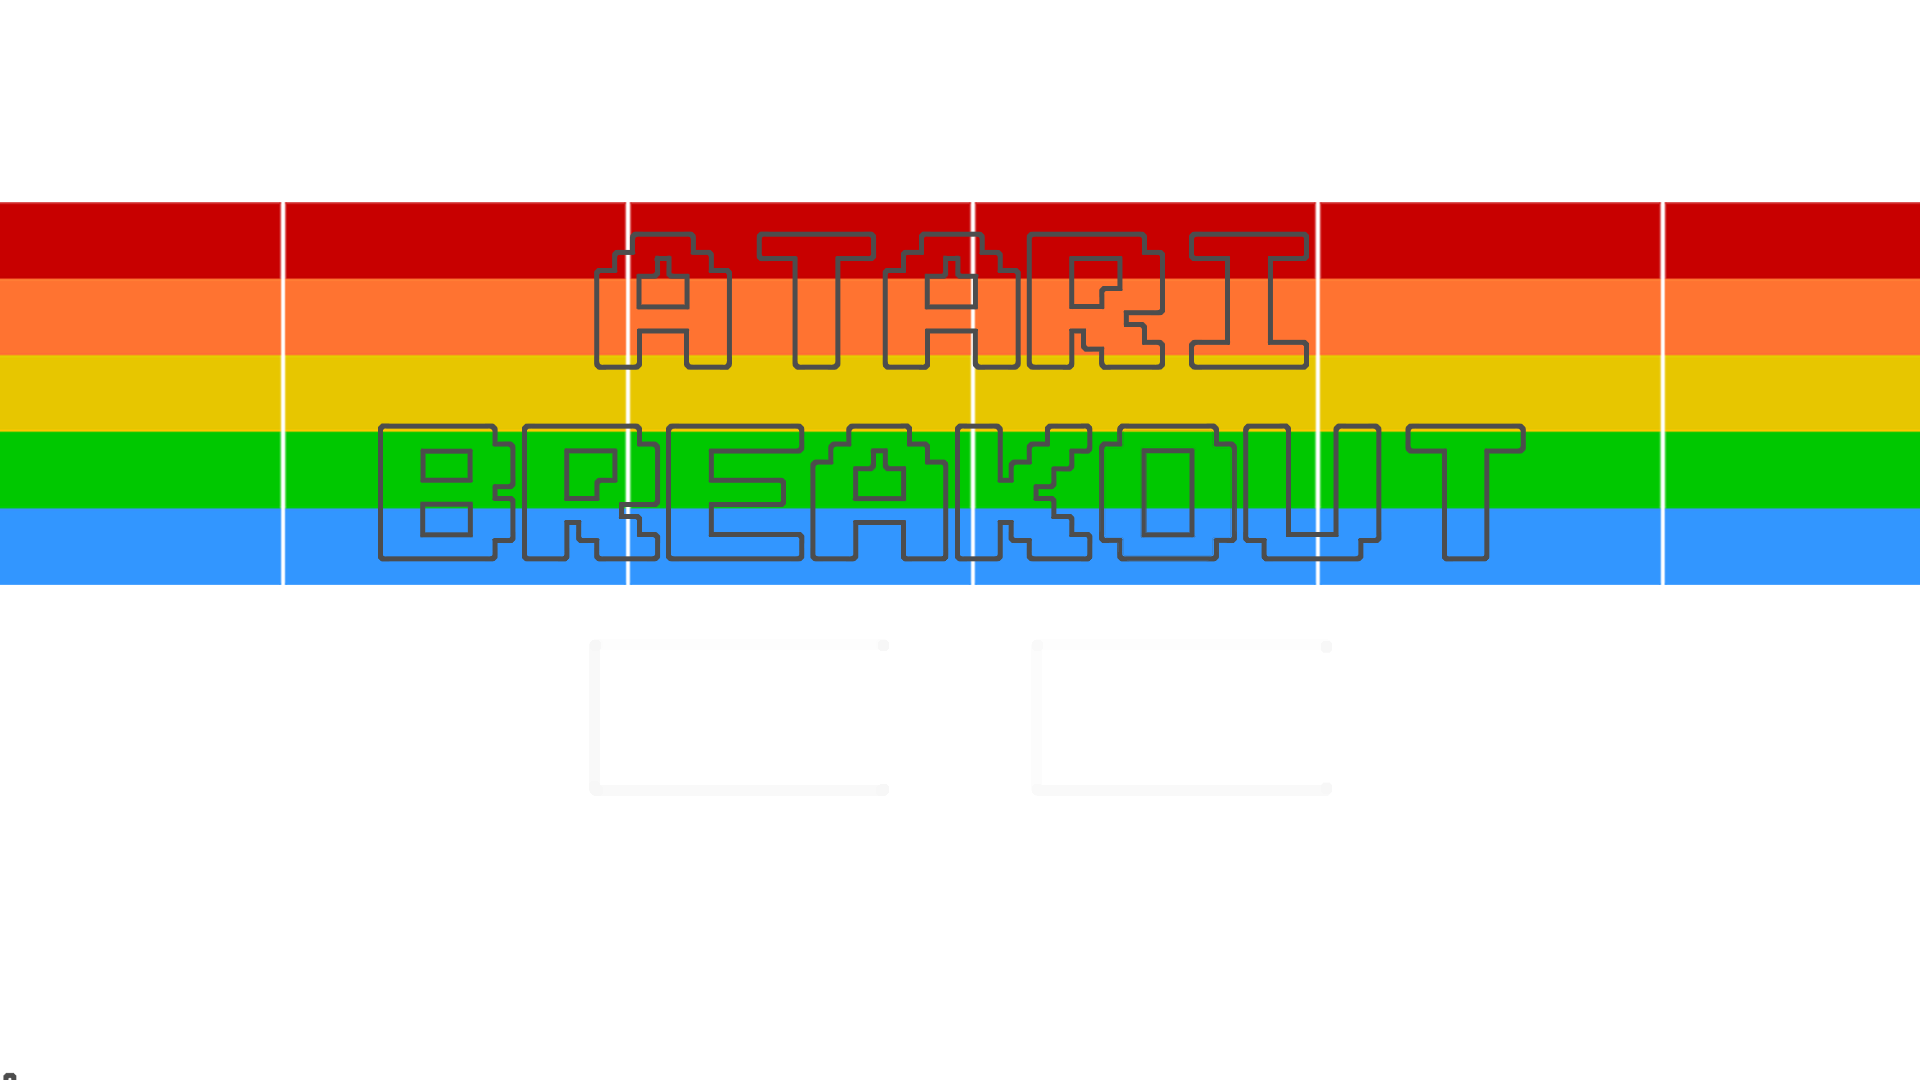
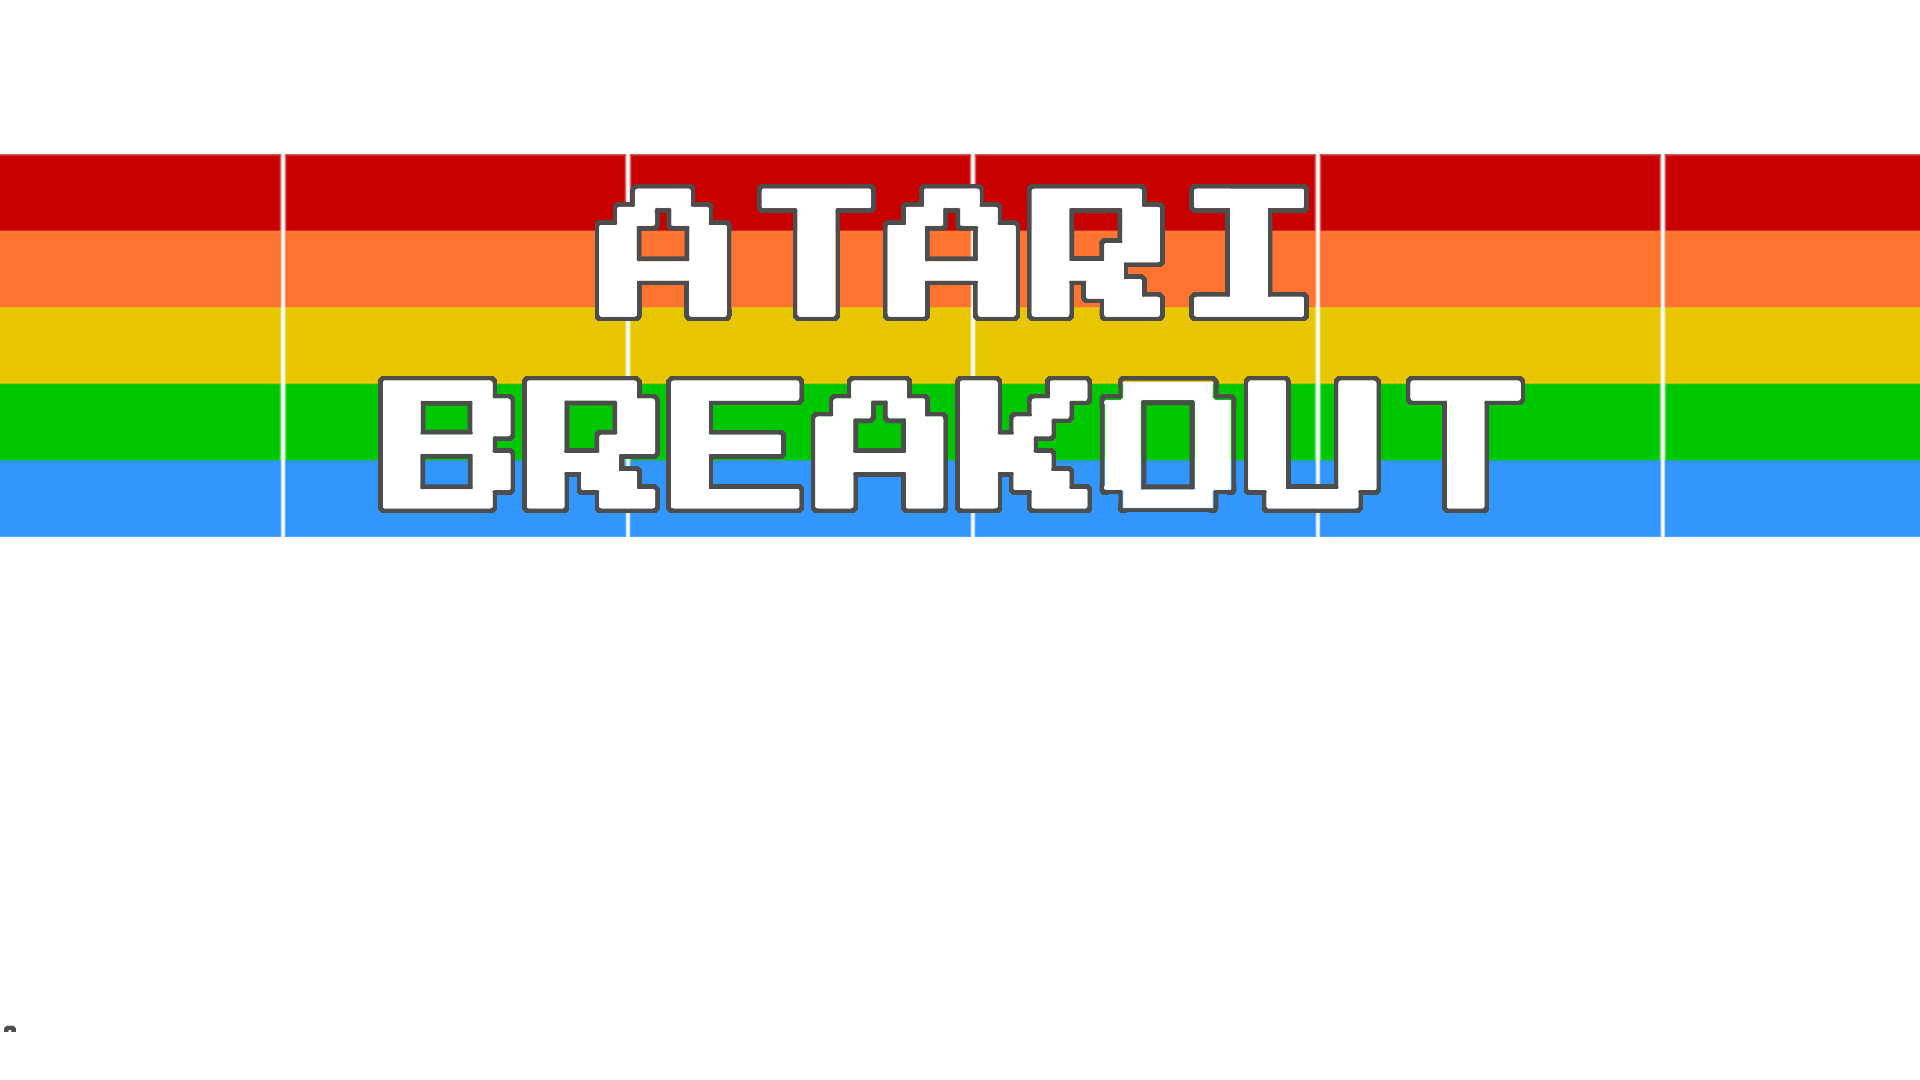
additional UI changes

Changed region(s): [[0.0, 0.1222, 1.0, 0.55]]

diff --git a/main.py b/main.py
@@ -288,9 +288,8 @@ def game_intro():  # title screen for breakout
                 pygame.quit()
                 quit()
 
-
-        # title of the game
         screen.fill(black)
+        # button overlays
         rbut_overlay = pygame.image.load('assets/rbut_overlay.png')
         rbut_overlay = pygame.transform.scale(rbut_overlay, (int(320 * disp_x), int(170 * disp_y)))
         screen.blit(rbut_overlay, (int(1030 * disp_x), int(640 * disp_y)))
@@ -299,23 +298,20 @@ def game_intro():  # title screen for breakout
         gbut_overlay = pygame.transform.scale(gbut_overlay, (int(320 * disp_x), int(170 * disp_y)))
         screen.blit(gbut_overlay, (int(570 * disp_x), int(640 * disp_y)))
 
+        # title
         banner_overlay = pygame.image.load('assets/banner_overlay.png')
         banner_overlay = pygame.transform.scale(banner_overlay, (int(1920 * disp_x), int(1080 * disp_y)))
         screen.blit(banner_overlay, (int(0 * disp_x), int(0 * disp_y)))
 
-        large_text = pygame.font.Font('assets/PressStart2P.ttf', int(150 * disp_x))
-        TextSurf, TextRect = text_objects('ATARI', large_text)
-        TextRect.center = (((1920 / 2) * disp_x), ((300) * disp_x))
-        screen.blit(TextSurf, TextRect)
-
-        large_text = pygame.font.Font('assets/PressStart2P.ttf', int(150 * disp_x))
-        TextSurf, TextRect = text_objects('BREAKOUT', large_text)
-        TextRect.center = (((1920 / 2) * disp_x), ((500) * disp_x))
-        screen.blit(TextSurf, TextRect)
+        # filler??
+        breakout_icon = pygame.image.load('assets/breakout_icon.png')
+        breakout_icon = pygame.transform.scale(breakout_icon, (int(150 * disp_x), int(150 * disp_y)))
+        screen.blit(breakout_icon, (int(1760 * disp_x), int(10 * disp_y)))
 
         # start/quit buttons
-        button('START', 580 * disp_x, 650 * disp_y, 300 * disp_x, 150 * disp_y, green, bright_green, main_game)
-        button('QUIT', 1040 * disp_x, 650 * disp_y, 300 * disp_x, 150 * disp_y, red, bright_red, QUIT)
+        #button('START', 580 * disp_x, 650 * disp_y, 300 * disp_x, 150 * disp_y, green, bright_green, main_game)
+        #button('QUIT', 1040 * disp_x, 650 * disp_y, 300 * disp_x, 150 * disp_y, red, bright_red, QUIT)
+        #button('¯\\\\_(\'_\')_/¯', 100 * disp_x, 600 * disp_y, 400 *disp_x, 400 * disp_y, blue, blue)
 
         # options gear button
         icon(gearImg, 25 * disp_x, 25 * disp_y, 100 * disp_x, 100 * disp_y, dim_white, white, options)
@@ -363,18 +359,23 @@ def game_done(win: bool):
         paddle.handle_keys()
         screen.fill(black)
         clock.tick(60)
+
+        cont_overlay = pygame.image.load('assets/cont_overlay.png')
+        cont_overlay = pygame.transform.scale(cont_overlay, (int(570 * disp_x), int(170 * disp_y)))
+        screen.blit(cont_overlay, (int(700 * disp_x), int(640 * disp_y)))
+
         if win:
-            text_box('YOU WIN', 960 * disp_x, 500 * disp_y, 150)
+            text_box('YOU WIN', 960 * disp_x, 400 * disp_y, 150)
         else:
-            text_box('GAME OVER', 960 * disp_x, 500 * disp_y, 150)
-        button('CONTINUE', (960 - 250) * disp_x, 750 * disp_y, 500 * disp_x, 150 * disp_y, green, bright_green, game_intro)
+            text_box('GAME OVER', 960 * disp_x, 400 * disp_y, 150)
+        button('CONTINUE', (960 - 250) * disp_x, 650 * disp_y, 550 * disp_x, 150 * disp_y, green, bright_green, game_intro)
         pygame.display.flip()
 
 
 def main_game(level=1):
     running = True
     sped_up = False
-    lives = 10
+    lives = 1
     pygame.mixer.music.stop()
     screen.fill(black)
     setup_blocks(level)
